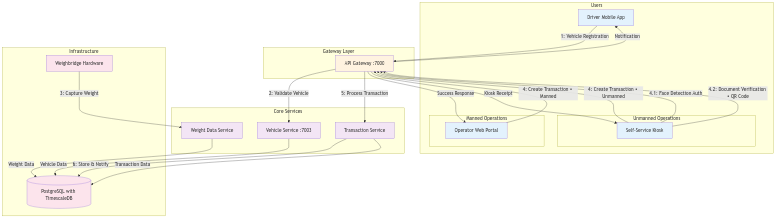
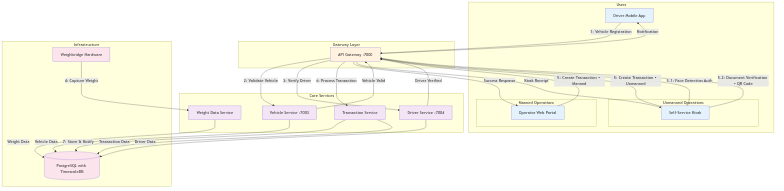
feat(c4): add driver and vehicle verification steps before weight capture
- Add Driver Service :7004 to Complete Weighing Transaction Flow
- Insert driver verification step (Step 3) after vehicle validation
- Reorder transaction flow: Vehicle Registration → Vehicle Validation → Driver Verification → Weight Capture
- Update step numbering: weight capture now Step 4, transactions now Step 5/5.1/5.2, processing Steps 6-7
- Enhanced verification ensures both vehicle and driver are validated before weighing
- Update embedded markdown diagram and documentation to reflect verification workflow
- Regenerate PNG assets with comprehensive verification flow

🤖 Generated with [Claude Code](https://claude.ai/code)

diff --git a/docs/c4/03-component-flows.md b/docs/c4/03-component-flows.md
@@ -62,6 +62,7 @@ flowchart TD
     
     subgraph "Core Services"
         VehicleSvc[Vehicle Service :7003]
+        DriverSvc[Driver Service :7004]
         WeightSvc[Weight Data Service]
         TransactionSvc[Transaction Service]
     end
@@ -74,22 +75,26 @@ flowchart TD
     %% Sequential transaction flow
     Driver -->|"1: Vehicle Registration"| Gateway
     Gateway -->|"2: Validate Vehicle"| VehicleSvc
-    Hardware -->|"3: Capture Weight"| WeightSvc
+    VehicleSvc -->|"Vehicle Valid"| Gateway
+    Gateway -->|"3: Verify Driver"| DriverSvc
+    DriverSvc -->|"Driver Verified"| Gateway
+    Hardware -->|"4: Capture Weight"| WeightSvc
     
     %% Manned operations
-    Operator -->|"4: Create Transaction • Manned"| Gateway
+    Operator -->|"5: Create Transaction • Manned"| Gateway
     
     %% Unmanned operations  
-    Kiosk -->|"4: Create Transaction • Unmanned"| Gateway
-    Kiosk -->|"4.1: Face Detection Auth"| Gateway
-    Kiosk -->|"4.2: Document Verification • QR Code"| Gateway
+    Kiosk -->|"5: Create Transaction • Unmanned"| Gateway
+    Kiosk -->|"5.1: Face Detection Auth"| Gateway
+    Kiosk -->|"5.2: Document Verification • QR Code"| Gateway
     
     %% Common transaction processing
-    Gateway -->|"5: Process Transaction"| TransactionSvc
-    TransactionSvc -->|"6: Store & Notify"| PostgreSQL
+    Gateway -->|"6: Process Transaction"| TransactionSvc
+    TransactionSvc -->|"7: Store & Notify"| PostgreSQL
     
     %% Data storage
     VehicleSvc -->|Vehicle Data| PostgreSQL
+    DriverSvc -->|Driver Data| PostgreSQL
     WeightSvc -->|Weight Data| PostgreSQL
     TransactionSvc -->|Transaction Data| PostgreSQL
     
@@ -105,26 +110,36 @@ flowchart TD
     
     class Driver,Operator,Kiosk client
     class Gateway gateway
-    class VehicleSvc,WeightSvc,TransactionSvc services
+    class VehicleSvc,DriverSvc,WeightSvc,TransactionSvc services
     class PostgreSQL,Hardware infrastructure
 ```
 
-### **🔄 Manned vs Unmanned Operations**
+### **🔄 Complete Transaction Flow**
 
-The transaction flow supports both manned and unmanned weighing operations:
+The enhanced transaction flow includes comprehensive verification before weighing:
 
-**Manned Operations (Step 4):**
+**Pre-Weighing Verification (Steps 1-4):**
+- **Step 1:** Vehicle registration via driver mobile app
+- **Step 2:** Vehicle validation against registered fleet
+- **Step 3:** Driver verification and license validation
+- **Step 4:** Weight capture from calibrated hardware
+
+**Manned Operations (Step 5):**
 - Operator uses web portal to create transactions
 - Human oversight and validation
 - Real-time operator assistance
 - Manual intervention capabilities
 
-**Unmanned Operations (Step 4 + 4.1 + 4.2):**
+**Unmanned Operations (Step 5 + 5.1 + 5.2):**
 - Self-service kiosk creates transactions automatically
-- Face detection authentication (Step 4.1)
-- Document verification using QR code scanning (Step 4.2)
+- Face detection authentication (Step 5.1)
+- Document verification using QR code scanning (Step 5.2)
 - Touch interface for driver interaction
 - Automatic receipt generation
+
+**Transaction Processing (Steps 6-7):**
+- Gateway processes validated transaction
+- Data storage and stakeholder notifications
 
 Both paths converge at the Gateway for consistent transaction processing, ensuring the same data integrity and compliance standards regardless of operation mode.
 
